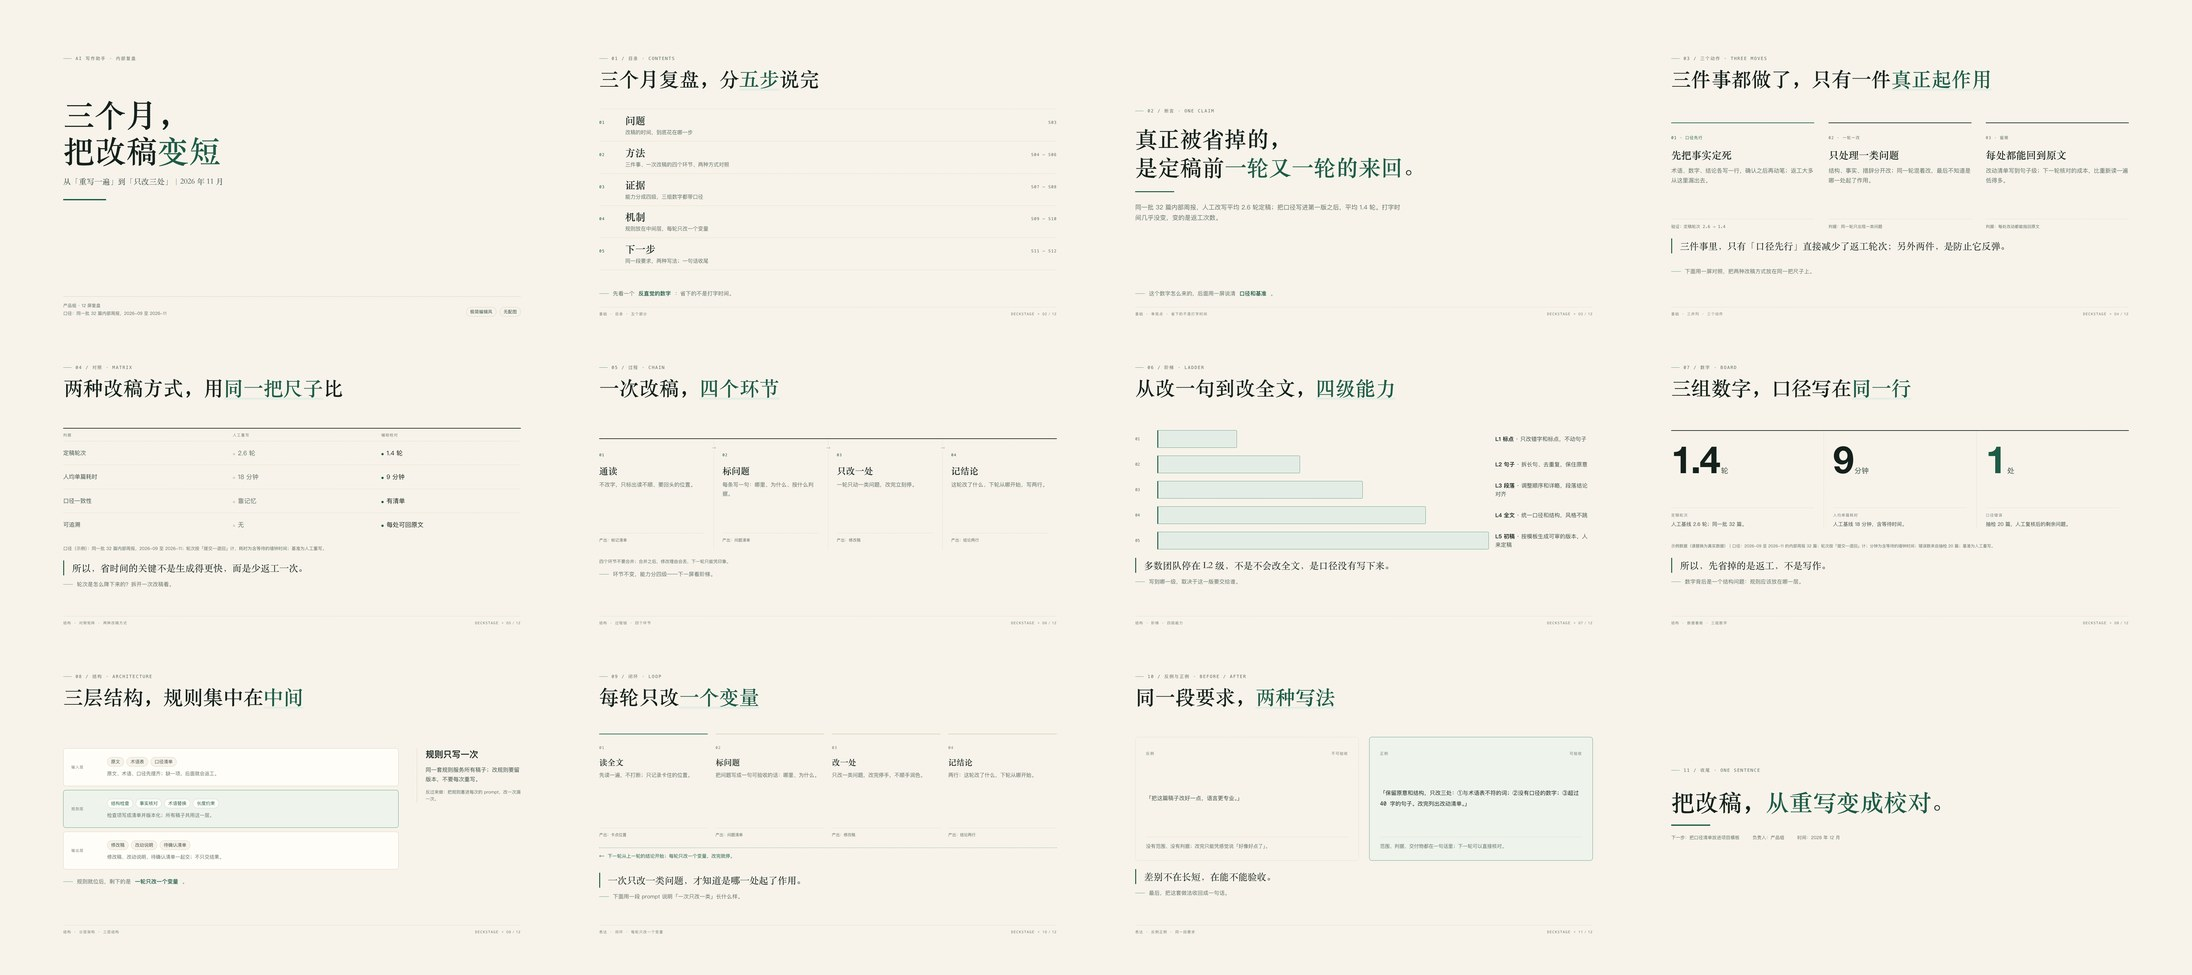
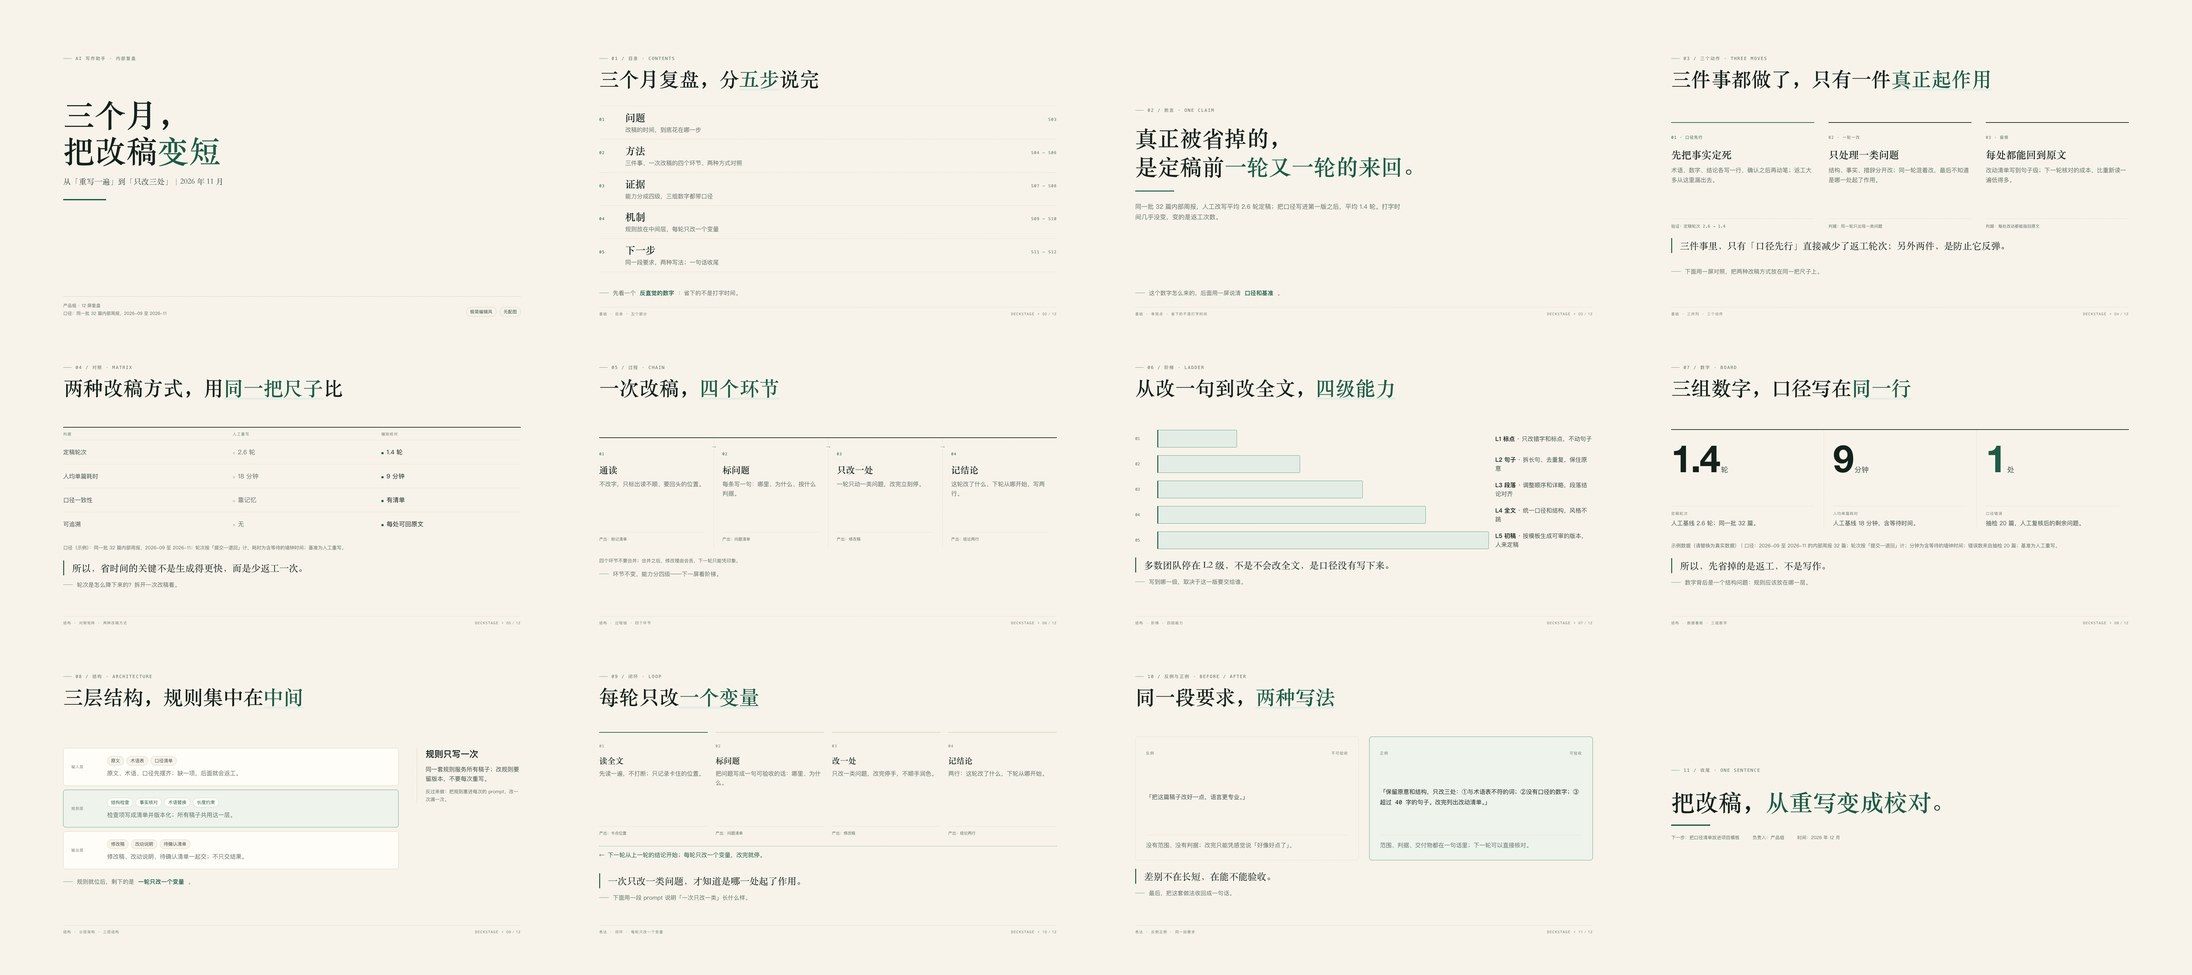
fix: 发布 DeckStage v1.4.1 —— 提升骨架正文可读性

diff --git a/decks/sample-deck/index.html b/decks/sample-deck/index.html
@@ -437,7 +437,7 @@ html[data-dtheme="ink-dark"] .tag--gold { color: var(--gold); }
   display: flex;
   align-items: center;
   gap: 12px;
-  font-size: 16.5px;
+  font-size: 17.5px;
   color: var(--ink-3);
   letter-spacing: .01em;
 }
@@ -637,7 +637,7 @@ html[data-dtheme="ink-dark"] .tag--gold { color: var(--gold); }
 .slide[data-arch] .body { justify-content: center; }
 .slide[data-arch] .body > .ax-bottom { margin-top: 0; }
 .ax-note {
-  font-size: 13.5px;
+  font-size: 14.5px;
   line-height: 1.6;
   color: var(--ink-3);
   margin: 0;
@@ -717,7 +717,7 @@ html[data-dtheme="ink-dark"] .tag--gold { color: var(--gold); }
   margin: 0;
   color: var(--ink);
 }
-.ax-toc__d { margin: 5px 0 0; font-size: 16px; line-height: 1.5; color: var(--ink-3); }
+.ax-toc__d { margin: 5px 0 0; font-size: 18px; line-height: 1.5; color: var(--ink-3); }
 .ax-toc__pg {
   text-align: right;
   font-family: var(--font-mono);
@@ -774,7 +774,7 @@ html[data-dtheme="ink-dark"] .tag--gold { color: var(--gold); }
   margin: 12px 0 0;
   color: var(--ink);
 }
-.ax-trio__p { margin: 12px 0 0; font-size: 17.5px; line-height: 1.75; color: var(--ink-3); }
+.ax-trio__p { margin: 12px 0 0; font-size: 18px; line-height: 1.7; color: var(--ink-3); }
 .ax-trio__k {
   margin: auto 0 0;
   padding-top: 14px;
@@ -804,7 +804,7 @@ html[data-dtheme="ink-dark"] .tag--gold { color: var(--gold); }
   color: var(--ink-4);
 }
 .ax-matrix__row { min-height: 68px; padding: 22px 0; border-top: 1px solid var(--line-soft); }
-.ax-matrix__k { font-size: 17.5px; line-height: 1.5; color: var(--ink-2); }
+.ax-matrix__k { font-size: 18px; line-height: 1.5; color: var(--ink-2); }
 .ax-matrix__v {
   display: flex;
   align-items: baseline;
@@ -864,7 +864,7 @@ html[data-dtheme="ink-dark"] .tag--gold { color: var(--gold); }
   margin: 12px 0 0;
   color: var(--ink);
 }
-.ax-chain__p { margin: 10px 0 0; font-size: 16.5px; line-height: 1.7; color: var(--ink-3); }
+.ax-chain__p { margin: 10px 0 0; font-size: 18px; line-height: 1.65; color: var(--ink-3); }
 .ax-chain__out {
   margin: auto 0 0;
   padding-top: 12px;
@@ -897,7 +897,7 @@ html[data-dtheme="ink-dark"] .tag--gold { color: var(--gold); }
 .ax-ladder__row:nth-child(3) .ax-ladder__bar { width: 62%; }
 .ax-ladder__row:nth-child(4) .ax-ladder__bar { width: 81%; }
 .ax-ladder__row:nth-child(5) .ax-ladder__bar { width: 100%; }
-.ax-ladder__label { font-size: 17px; line-height: 1.55; color: var(--ink-2); }
+.ax-ladder__label { font-size: 18px; line-height: 1.5; color: var(--ink-2); }
 .ax-ladder__label b { font-weight: 600; color: var(--ink); }
 
 /* ---- 08 数据看板 ---- */
@@ -942,8 +942,8 @@ html[data-dtheme="ink-dark"] .tag--gold { color: var(--gold); }
   text-transform: uppercase;
   color: var(--ink-4);
 }
-.ax-board__d { margin: 8px 0 0; font-size: 15.5px; line-height: 1.6; color: var(--ink-2); }
-.ax-board__foot { margin: 18px 0 0; font-size: 12.5px; line-height: 1.6; color: var(--ink-3); }
+.ax-board__d { margin: 8px 0 0; font-size: 18px; line-height: 1.5; color: var(--ink-2); }
+.ax-board__foot { margin: 18px 0 0; font-size: 15px; line-height: 1.6; color: var(--ink-3); }
 
 /* ---- 09 分层架构 ---- */
 .ax-arch { display: grid; grid-template-columns: minmax(0, 1fr) 320px; gap: 56px; align-items: start; }
@@ -968,7 +968,7 @@ html[data-dtheme="ink-dark"] .tag--gold { color: var(--gold); }
 }
 .ax-arch__body { display: flex; flex-direction: column; gap: 10px; }
 .ax-arch__chips { display: flex; flex-wrap: wrap; gap: 8px; }
-.ax-arch__d { margin: 0; font-size: 15px; line-height: 1.55; color: var(--ink-3); }
+.ax-arch__d { margin: 0; font-size: 18px; line-height: 1.5; color: var(--ink-3); }
 .ax-arch__chip {
   font-size: 14px;
   line-height: 1.4;
@@ -986,7 +986,7 @@ html[data-dtheme="ink-dark"] .tag--gold { color: var(--gold); }
   flex-direction: column;
   gap: 14px;
 }
-.ax-arch__side .txt { margin: 0; }
+.ax-arch__side .txt { margin: 0; font-size: 18px; line-height: 1.6; }
 
 /* ---- 10 闭环 ---- */
 .ax-loop { display: flex; flex-direction: column; }
@@ -1008,7 +1008,7 @@ html[data-dtheme="ink-dark"] .tag--gold { color: var(--gold); }
   margin: 10px 0 0;
   color: var(--ink);
 }
-.ax-loop__p { margin: 9px 0 0; font-size: 16px; line-height: 1.65; color: var(--ink-3); }
+.ax-loop__p { margin: 9px 0 0; font-size: 18px; line-height: 1.55; color: var(--ink-3); }
 .ax-loop__out {
   margin: auto 0 0;
   padding-top: 12px;
@@ -1025,7 +1025,7 @@ html[data-dtheme="ink-dark"] .tag--gold { color: var(--gold); }
   display: flex;
   align-items: center;
   gap: 10px;
-  font-size: 14.5px;
+  font-size: 18px;
   color: var(--green);
 }
 .ax-loop__return::before { content: "←"; font-size: 16px; }
@@ -1057,8 +1057,8 @@ html[data-dtheme="ink-dark"] .tag--gold { color: var(--gold); }
 .ax-contrast__q {
   margin: 0;
   font-family: var(--font-mono);
-  font-size: 17px;
-  line-height: 1.9;
+  font-size: 18px;
+  line-height: 1.8;
   color: var(--ink-2);
 }
 .ax-contrast__panel--good .ax-contrast__q { color: var(--ink); }
@@ -1066,7 +1066,7 @@ html[data-dtheme="ink-dark"] .tag--gold { color: var(--gold); }
   margin: 0;
   padding-top: 16px;
   border-top: 1px solid var(--line-soft);
-  font-size: 15px;
+  font-size: 18px;
   line-height: 1.65;
   color: var(--ink-3);
 }

diff --git a/src/css/base.css b/src/css/base.css
@@ -343,7 +343,7 @@ html[data-dtheme="ink-dark"] .tag--gold { color: var(--gold); }
   display: flex;
   align-items: center;
   gap: 12px;
-  font-size: 16.5px;
+  font-size: 17.5px;
   color: var(--ink-3);
   letter-spacing: .01em;
 }
@@ -543,7 +543,7 @@ html[data-dtheme="ink-dark"] .tag--gold { color: var(--gold); }
 .slide[data-arch] .body { justify-content: center; }
 .slide[data-arch] .body > .ax-bottom { margin-top: 0; }
 .ax-note {
-  font-size: 13.5px;
+  font-size: 14.5px;
   line-height: 1.6;
   color: var(--ink-3);
   margin: 0;
@@ -623,7 +623,7 @@ html[data-dtheme="ink-dark"] .tag--gold { color: var(--gold); }
   margin: 0;
   color: var(--ink);
 }
-.ax-toc__d { margin: 5px 0 0; font-size: 16px; line-height: 1.5; color: var(--ink-3); }
+.ax-toc__d { margin: 5px 0 0; font-size: 18px; line-height: 1.5; color: var(--ink-3); }
 .ax-toc__pg {
   text-align: right;
   font-family: var(--font-mono);
@@ -680,7 +680,7 @@ html[data-dtheme="ink-dark"] .tag--gold { color: var(--gold); }
   margin: 12px 0 0;
   color: var(--ink);
 }
-.ax-trio__p { margin: 12px 0 0; font-size: 17.5px; line-height: 1.75; color: var(--ink-3); }
+.ax-trio__p { margin: 12px 0 0; font-size: 18px; line-height: 1.7; color: var(--ink-3); }
 .ax-trio__k {
   margin: auto 0 0;
   padding-top: 14px;
@@ -710,7 +710,7 @@ html[data-dtheme="ink-dark"] .tag--gold { color: var(--gold); }
   color: var(--ink-4);
 }
 .ax-matrix__row { min-height: 68px; padding: 22px 0; border-top: 1px solid var(--line-soft); }
-.ax-matrix__k { font-size: 17.5px; line-height: 1.5; color: var(--ink-2); }
+.ax-matrix__k { font-size: 18px; line-height: 1.5; color: var(--ink-2); }
 .ax-matrix__v {
   display: flex;
   align-items: baseline;
@@ -770,7 +770,7 @@ html[data-dtheme="ink-dark"] .tag--gold { color: var(--gold); }
   margin: 12px 0 0;
   color: var(--ink);
 }
-.ax-chain__p { margin: 10px 0 0; font-size: 16.5px; line-height: 1.7; color: var(--ink-3); }
+.ax-chain__p { margin: 10px 0 0; font-size: 18px; line-height: 1.65; color: var(--ink-3); }
 .ax-chain__out {
   margin: auto 0 0;
   padding-top: 12px;
@@ -803,7 +803,7 @@ html[data-dtheme="ink-dark"] .tag--gold { color: var(--gold); }
 .ax-ladder__row:nth-child(3) .ax-ladder__bar { width: 62%; }
 .ax-ladder__row:nth-child(4) .ax-ladder__bar { width: 81%; }
 .ax-ladder__row:nth-child(5) .ax-ladder__bar { width: 100%; }
-.ax-ladder__label { font-size: 17px; line-height: 1.55; color: var(--ink-2); }
+.ax-ladder__label { font-size: 18px; line-height: 1.5; color: var(--ink-2); }
 .ax-ladder__label b { font-weight: 600; color: var(--ink); }
 
 /* ---- 08 数据看板 ---- */
@@ -848,8 +848,8 @@ html[data-dtheme="ink-dark"] .tag--gold { color: var(--gold); }
   text-transform: uppercase;
   color: var(--ink-4);
 }
-.ax-board__d { margin: 8px 0 0; font-size: 15.5px; line-height: 1.6; color: var(--ink-2); }
-.ax-board__foot { margin: 18px 0 0; font-size: 12.5px; line-height: 1.6; color: var(--ink-3); }
+.ax-board__d { margin: 8px 0 0; font-size: 18px; line-height: 1.5; color: var(--ink-2); }
+.ax-board__foot { margin: 18px 0 0; font-size: 15px; line-height: 1.6; color: var(--ink-3); }
 
 /* ---- 09 分层架构 ---- */
 .ax-arch { display: grid; grid-template-columns: minmax(0, 1fr) 320px; gap: 56px; align-items: start; }
@@ -874,7 +874,7 @@ html[data-dtheme="ink-dark"] .tag--gold { color: var(--gold); }
 }
 .ax-arch__body { display: flex; flex-direction: column; gap: 10px; }
 .ax-arch__chips { display: flex; flex-wrap: wrap; gap: 8px; }
-.ax-arch__d { margin: 0; font-size: 15px; line-height: 1.55; color: var(--ink-3); }
+.ax-arch__d { margin: 0; font-size: 18px; line-height: 1.5; color: var(--ink-3); }
 .ax-arch__chip {
   font-size: 14px;
   line-height: 1.4;
@@ -892,7 +892,7 @@ html[data-dtheme="ink-dark"] .tag--gold { color: var(--gold); }
   flex-direction: column;
   gap: 14px;
 }
-.ax-arch__side .txt { margin: 0; }
+.ax-arch__side .txt { margin: 0; font-size: 18px; line-height: 1.6; }
 
 /* ---- 10 闭环 ---- */
 .ax-loop { display: flex; flex-direction: column; }
@@ -914,7 +914,7 @@ html[data-dtheme="ink-dark"] .tag--gold { color: var(--gold); }
   margin: 10px 0 0;
   color: var(--ink);
 }
-.ax-loop__p { margin: 9px 0 0; font-size: 16px; line-height: 1.65; color: var(--ink-3); }
+.ax-loop__p { margin: 9px 0 0; font-size: 18px; line-height: 1.55; color: var(--ink-3); }
 .ax-loop__out {
   margin: auto 0 0;
   padding-top: 12px;
@@ -931,7 +931,7 @@ html[data-dtheme="ink-dark"] .tag--gold { color: var(--gold); }
   display: flex;
   align-items: center;
   gap: 10px;
-  font-size: 14.5px;
+  font-size: 18px;
   color: var(--green);
 }
 .ax-loop__return::before { content: "←"; font-size: 16px; }
@@ -963,8 +963,8 @@ html[data-dtheme="ink-dark"] .tag--gold { color: var(--gold); }
 .ax-contrast__q {
   margin: 0;
   font-family: var(--font-mono);
-  font-size: 17px;
-  line-height: 1.9;
+  font-size: 18px;
+  line-height: 1.8;
   color: var(--ink-2);
 }
 .ax-contrast__panel--good .ax-contrast__q { color: var(--ink); }
@@ -972,7 +972,7 @@ html[data-dtheme="ink-dark"] .tag--gold { color: var(--gold); }
   margin: 0;
   padding-top: 16px;
   border-top: 1px solid var(--line-soft);
-  font-size: 15px;
+  font-size: 18px;
   line-height: 1.65;
   color: var(--ink-3);
 }

diff --git a/CHANGELOG.md b/CHANGELOG.md
@@ -4,6 +4,15 @@
 [语义化版本](https://semver.org/lang/zh-CN/)。deck 引擎与工具链整体作为版本单元，
 deck 内容（`decks/<slug>/`）不在版本范围内。
 
+## [1.4.1] - 2026-11-20
+
+### 修复
+
+- 提升骨架主体说明字号：过程链 / 闭环 / 数据看板 / 分层架构 / 反例正例的说明统一到 18px，过渡句 17.5px，口径脚注 15px；避免在 1440 宽窗口下正文只剩 14px 左右。
+- 阶梯标签 17→18px、架构说明 15→18px、反例说明 15→18px；看板口径脚注 12.5→15px。
+- 同步更新 `AUTHORING.md` / `DECK_SPEC.md` / `LAYOUTS.md` / `AGENTS.md`：解释性正文 18–20px，辅助说明 14.5–17.5px，13.5px 以下只做标签。
+- 重新构建 12 屏画廊、示例 deck 与封面拼图。
+
 ## [1.4.0] - 2026-11-20
 
 ### 新增
@@ -113,6 +122,7 @@ deck 内容（`decks/<slug>/`）不在版本范围内。
 - 质检：`check_slides.py` 溢出/截断/重叠体检、`test_deck.py` 放映交互自测。
 - 匿名示例 deck（`sample-deck`）与文档（AUTHORING / DECK_SPEC / IMPORT）。
 
+[1.4.1]: https://github.com/Rocky8080/deckstage/compare/v1.4.0...v1.4.1
 [1.4.0]: https://github.com/Rocky8080/deckstage/compare/v1.3.0...v1.4.0
 [1.3.0]: https://github.com/Rocky8080/deckstage/compare/v1.2.0...v1.3.0
 [1.2.0]: https://github.com/Rocky8080/deckstage/compare/v1.1.0...v1.2.0

diff --git a/docs/DECK_SPEC.md b/docs/DECK_SPEC.md
@@ -143,7 +143,8 @@ decks/<slug>/
 - 根节点 `<section class="slide" id="sNN" data-title="屏标题" data-rail="量|物|法">`
 - `data-title` 会出现在进度条提示、总览卡片、页脚与浏览器标题里
 - 演讲备注写在 `<aside class="notes">…</aside>`，不进画面
-- 屏幕字号下限：正文 ≥ 13.5px；13px 以下只允许「序号 / 单位 / 轴标签 / 徽标」
+- 屏幕字号下限：解释性正文 ≥ 18px；辅助说明（过渡句 / 脚注 / 口径）≥ 14.5px；
+  13.5px 以下只允许「序号 / 单位 / 轴标签 / 徽标」，不承载解释
 - 数值涨跌按 A 股口径：涨红 `var(--up)`、跌绿 `var(--down-2)`
 - 套用主题变量（`tokens.css`），不要写死颜色
   —— 这是配色主题（`C` 键七套预设）能整套生效的前提：预设就是这套变量的成套覆盖，

diff --git a/AGENTS.md b/AGENTS.md
@@ -65,6 +65,8 @@ python3 tools/design_audit.py --index decks/<slug>/index.html --ratio 4:3
 5. 收尾页可以留白，但要有明确视觉锚点；不要用大色块硬填。
 6. 页面骨架要换：一套 ≥10 屏至少 6 种骨架，相邻两屏不同骨架，同一骨架最多 3 次；
    先用 `capabilities/design-quality/LAYOUTS.md` 选型，再填内容，不要连续三屏「标题 + 卡片」。
+7. 字号下限：解释性正文 18–20px；过渡句 / 脚注 / 口径 14.5–17.5px；标签 11.5–13.5px。
+   13.5px 以下只做标签；不要用缩小正文字号来塞内容。
 
 详细规则、修法和参考见 `docs/DESIGN.md`，能力包见 `capabilities/design-quality/SKILL.md`。
 

diff --git a/docs/AUTHORING.md b/docs/AUTHORING.md
@@ -60,6 +60,8 @@
 栅格：`.grid` + `.g2 .g3 .g4 .g5-7 .g7-5 .g1-2 .g2-1`，间距 26px；`.row` + `.grow` 做横向分栏。
 等宽分隔指标行：`.metrics` > `.metric`（竖线自动分隔）。
 
+字号下限（2026-11 修订）：**解释性正文 18–20px**；辅助说明（过渡句、脚注、口径）14.5–17.5px；标签 11.5–13.5px。13.5px 以下只允许序号 / 单位 / 轴标签 / 徽标，不承载解释。
+
 ## 4. 动效规则
 
 - 元素想入场就加 `.reveal`，用内联 `style="--d:180ms"` 控制延迟。**同一屏延迟阶梯 90–120ms，从 60ms 起，不超过 900ms**。

diff --git a/capabilities/design-quality/SKILL.md b/capabilities/design-quality/SKILL.md
@@ -17,6 +17,7 @@ whenToUse: 写或改幻灯片、封面、Q&A、收尾页、图表页；用户反
 - 先列「内容 → 骨架」清单，再动笔；不要从「标题 + 三张卡」开始套。
 - 骨架只解决版式；结论、证据、口径仍归 `tools/frame.py` 和写作能力包。
 - 骨架默认带动效（`.reveal` / `data-count` / `.grow-x`）；不要另写 JS 动画。
+- 字号下限：解释性正文 18–20px，标签 11.5–13.5px；13.5px 以下不做解释性文字。
 
 ```bash
 node build.mjs --src src-archetypes --deck archetypes   # 先看 12 个骨架长什么样

diff --git a/README.md b/README.md
@@ -27,7 +27,7 @@ PPTX export. Chinese UI, zero frontend build dependencies. License: Apache-2.0.
 
 `build.mjs` 使用 Node 标准库拼装，通过 Python 运行写作检查和缩略图工具。浏览器端依赖随仓库提供。
 
-v1.4.0 的变更详见 [发布日志](CHANGELOG.md#140---2026-11-20)。
+v1.4.1 的变更详见 [发布日志](CHANGELOG.md#141---2026-11-20)。
 
 ## 二、快速开始
 
